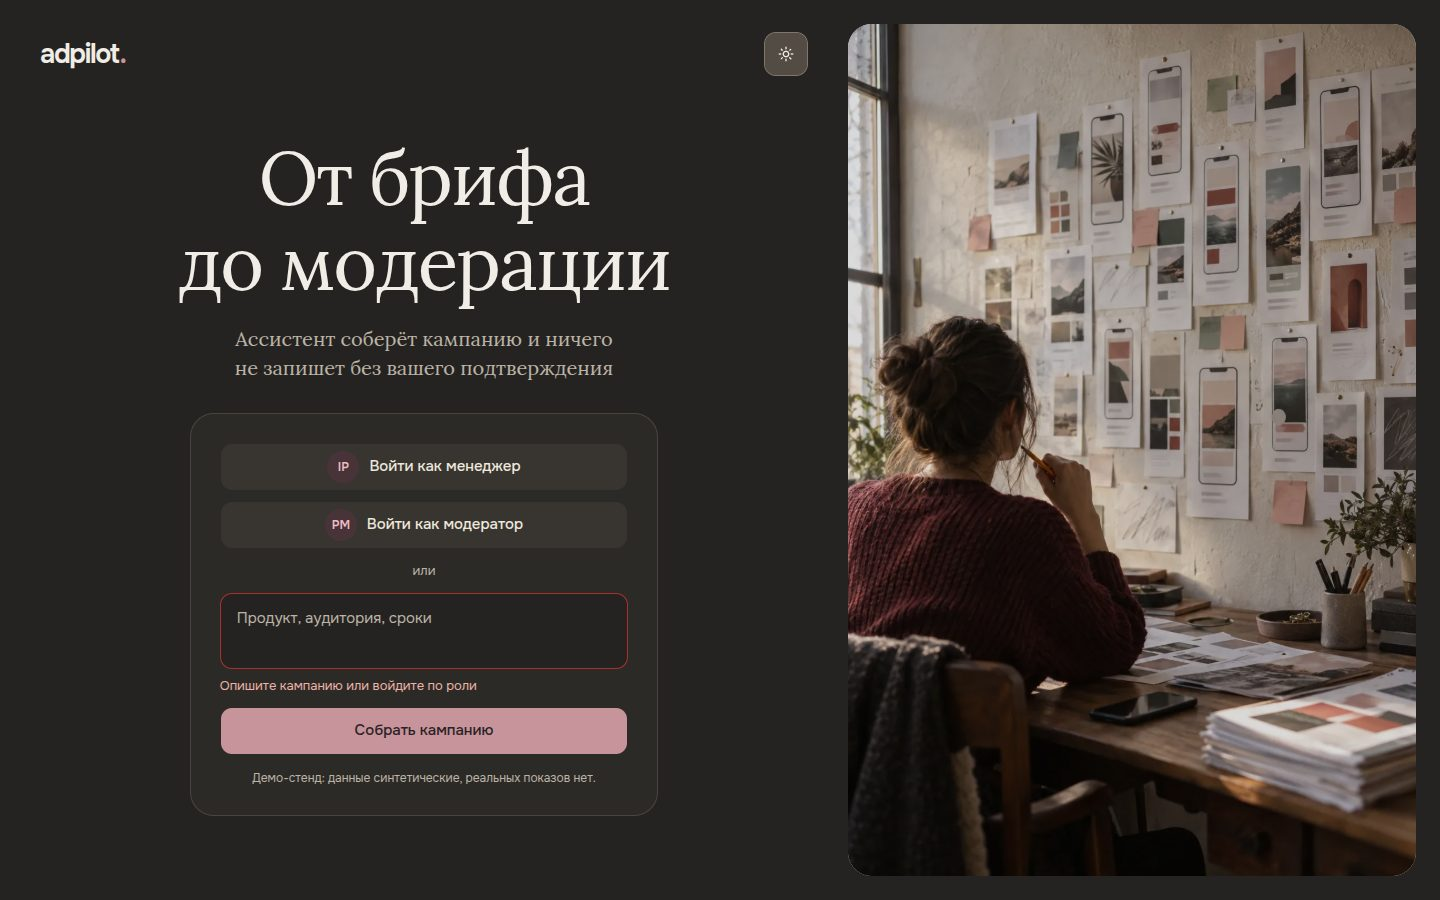
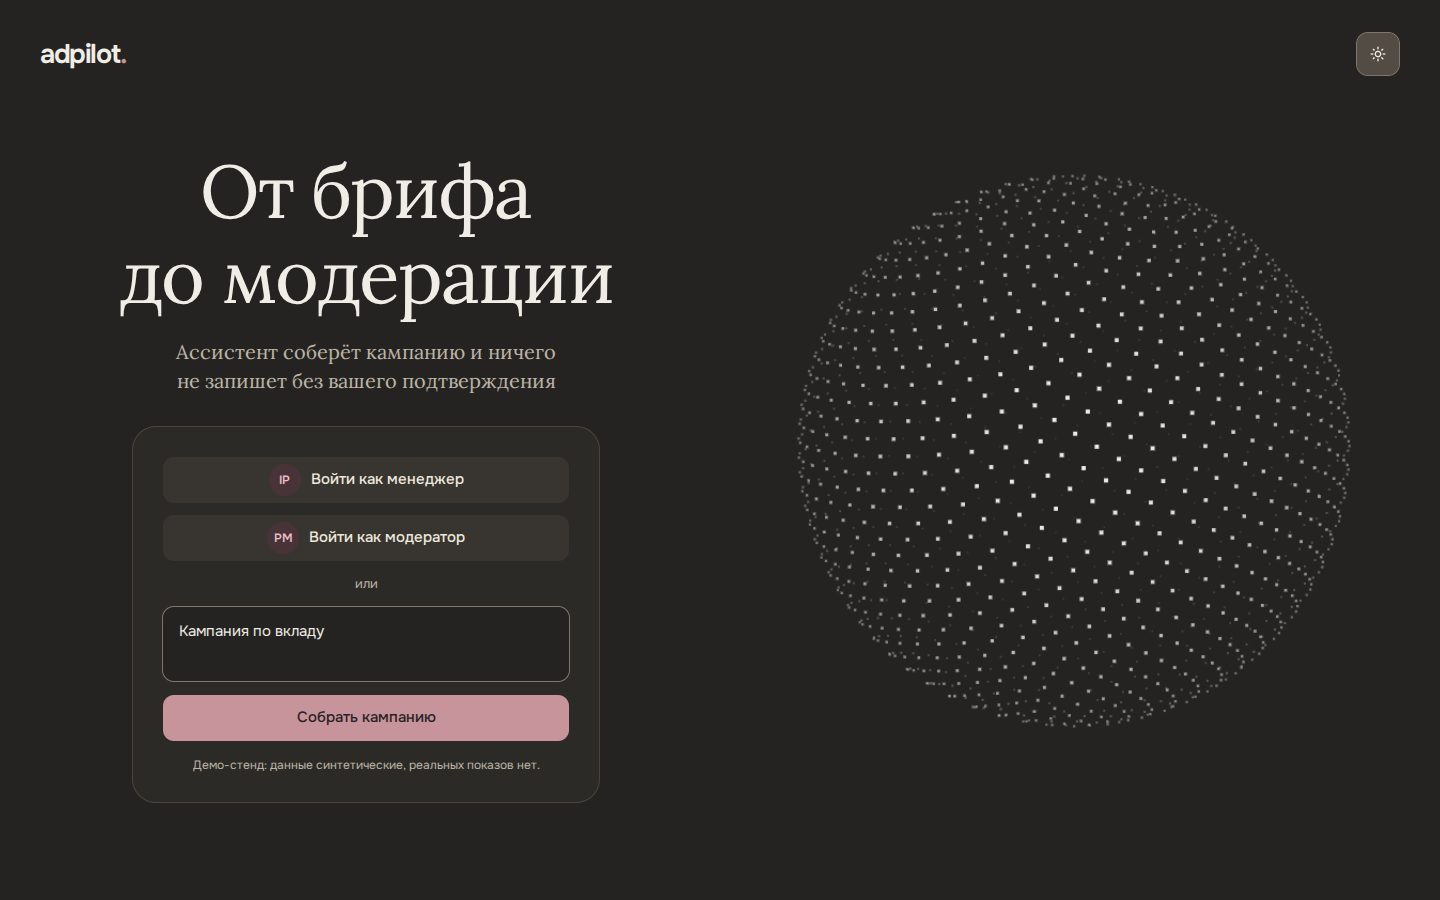
docs: record sphere on entry page

diff --git a/docs/DESIGN.md b/docs/DESIGN.md
@@ -40,11 +40,11 @@ colors:
 
 ## Вход
 
-Первый экран для нового посетителя: слева логотип, заголовок Lora и карточка, справа фото во всю высоту окна с пропорцией 2:3, скруглением 24px и `position: sticky`. Формат взят с референса пользователя, цвета, шрифты и кнопки — из этой системы. Реализация — `frontend/src/features/entry/`.
+Первый экран для нового посетителя: слева логотип, заголовок Lora и карточка, справа сфера голосового режима прямо на фоне страницы: Перламутр в светлой теме, Созвездие в тёмной. Сфера сохраняет собственные цвета, как и в голосовом режиме. Формат взят с референса пользователя, цвета, шрифты и кнопки — из этой системы. Фото из первой версии заменено по просьбе пользователя. Реализация — `frontend/src/features/entry/`.
 
 Карточка содержит вход менеджером, вход модератором, «или», поле брифа и основную кнопку «Собрать кампанию»; бордовый только у неё. Бриф отправляется агенту от менеджера. Вход не аутентифицирует, а выбирает роль для заголовков запросов, поэтому внешних провайдеров и поля почты нет. Подпись карточки сообщает, что данные синтетические и показов нет. «Выйти» находится в меню пользователя.
 
-На ширине ≤900px фото становится полосой над заголовком, высота 120–240px; на 390×844 всё умещается без прокрутки. Фото приглушается в тёмной теме. Движение: появление по общей схеме 280ms, смена экрана — перекрёстное затухание 240ms через View Transitions; при reduced motion экран меняется сразу.
+На ширине ≤900px сфера стоит над заголовком, высота холста 130–260px; на 390×844 всё умещается без прокрутки. Движение: появление по общей схеме 280ms, сфера откликается на ввод брифа и затухает за 700ms, смена экрана — перекрёстное затухание 240ms через View Transitions; при reduced motion сфера неподвижна, а экран меняется сразу. Без WebGL правая половина пуста, вход работает.
 
 ## Проверка
 

diff --git a/docs/STATUS.md b/docs/STATUS.md
@@ -104,6 +104,8 @@ Production build и lint прошли (прежние предупреждени
 
 Не проверено: живой ответ агента на бриф со страницы входа, Safari и iPhone, прод. Значок вкладки остался зелёным от прежнего «Изумруда».
 
+Фото затем заменено сферой голосового режима. В отдельном браузере с программным WebGL (swiftshader) повторно проверены те же шесть размеров, тёмная тема, отклик на ввод, reduced motion и вход без WebGL: горизонтального переполнения и ошибок в консоли нет. На настоящей видеокарте и телефоне нагрузка шейдера не замерялась.
+
 ## Анимации и прокрутка 31.10
 
 - Добавлены переход внутри кнопки «голос → отправка», сглаженный набор только новых SSE-ответов, курсор и индикатор ожидания. История и готовый ответ не задерживаются. Автор и реплики разделены, выполненные шаги свёрнуты; чтение старых сообщений сохраняет позицию.

diff --git a/design/README.md b/design/README.md
@@ -18,6 +18,6 @@
 
 Бриф — [brief.md](brief.md), источники — [references/README.md](references/README.md), продукт — [PRODUCT.md](../docs/PRODUCT.md), единый журнал решений — [DECISIONS.md](../docs/DECISIONS.md).
 
-Фото страницы входа (`frontend/src/features/entry/entry-photo.webp`) сгенерировано 1 ноября моделью из `IMAGE_MODEL` (`openai/gpt-image-2.5-sunburst`) и не изображает реального человека. Снимки — `captures/entry-*.jpg`.
+Снимки страницы входа — `captures/entry-*.jpg`. Сфера на ней — та же, что в голосовом режиме. Первая версия с фото есть в истории git, коммит `bf1f619`.
 
 Работающий интерфейс: `frontend/src/workspace.css`, запуск `cd frontend && npm run dev`. Снимки `captures/live-*.jpg` относятся к настоящему API и отдельной БД моков, остальные — к исходным макетам. Система и Motion — [docs/DESIGN.md](../docs/DESIGN.md).
